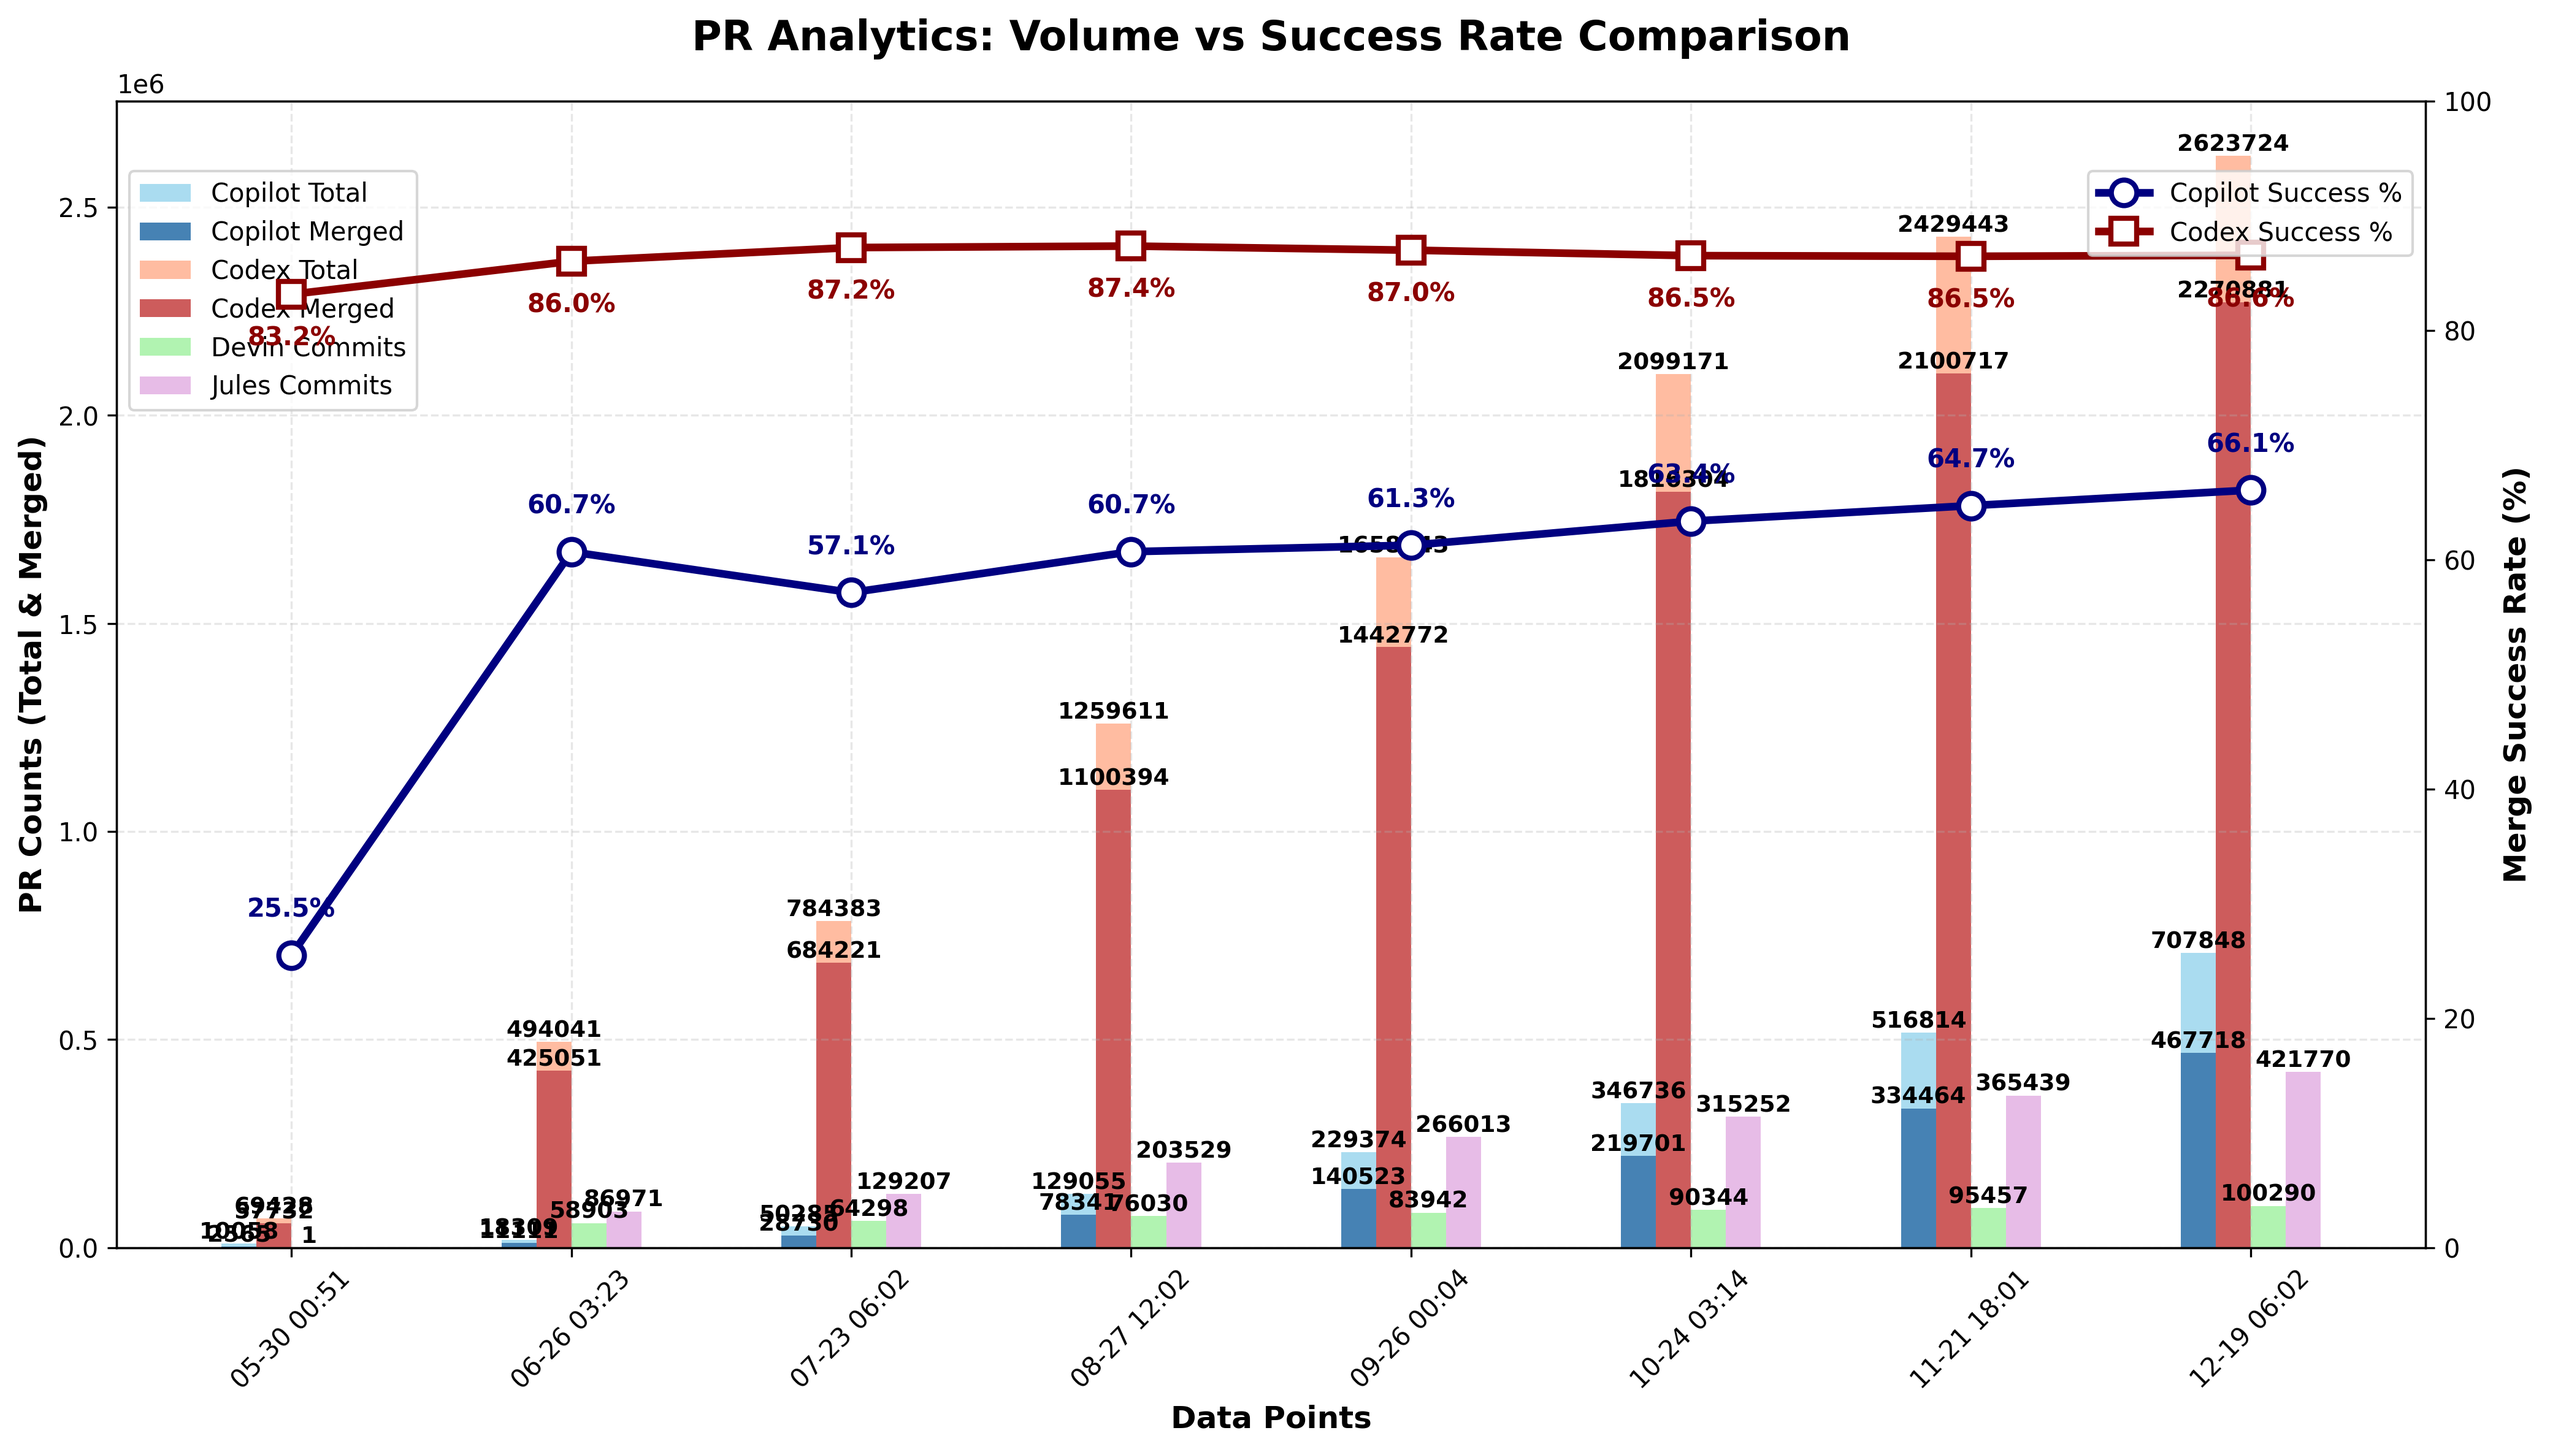
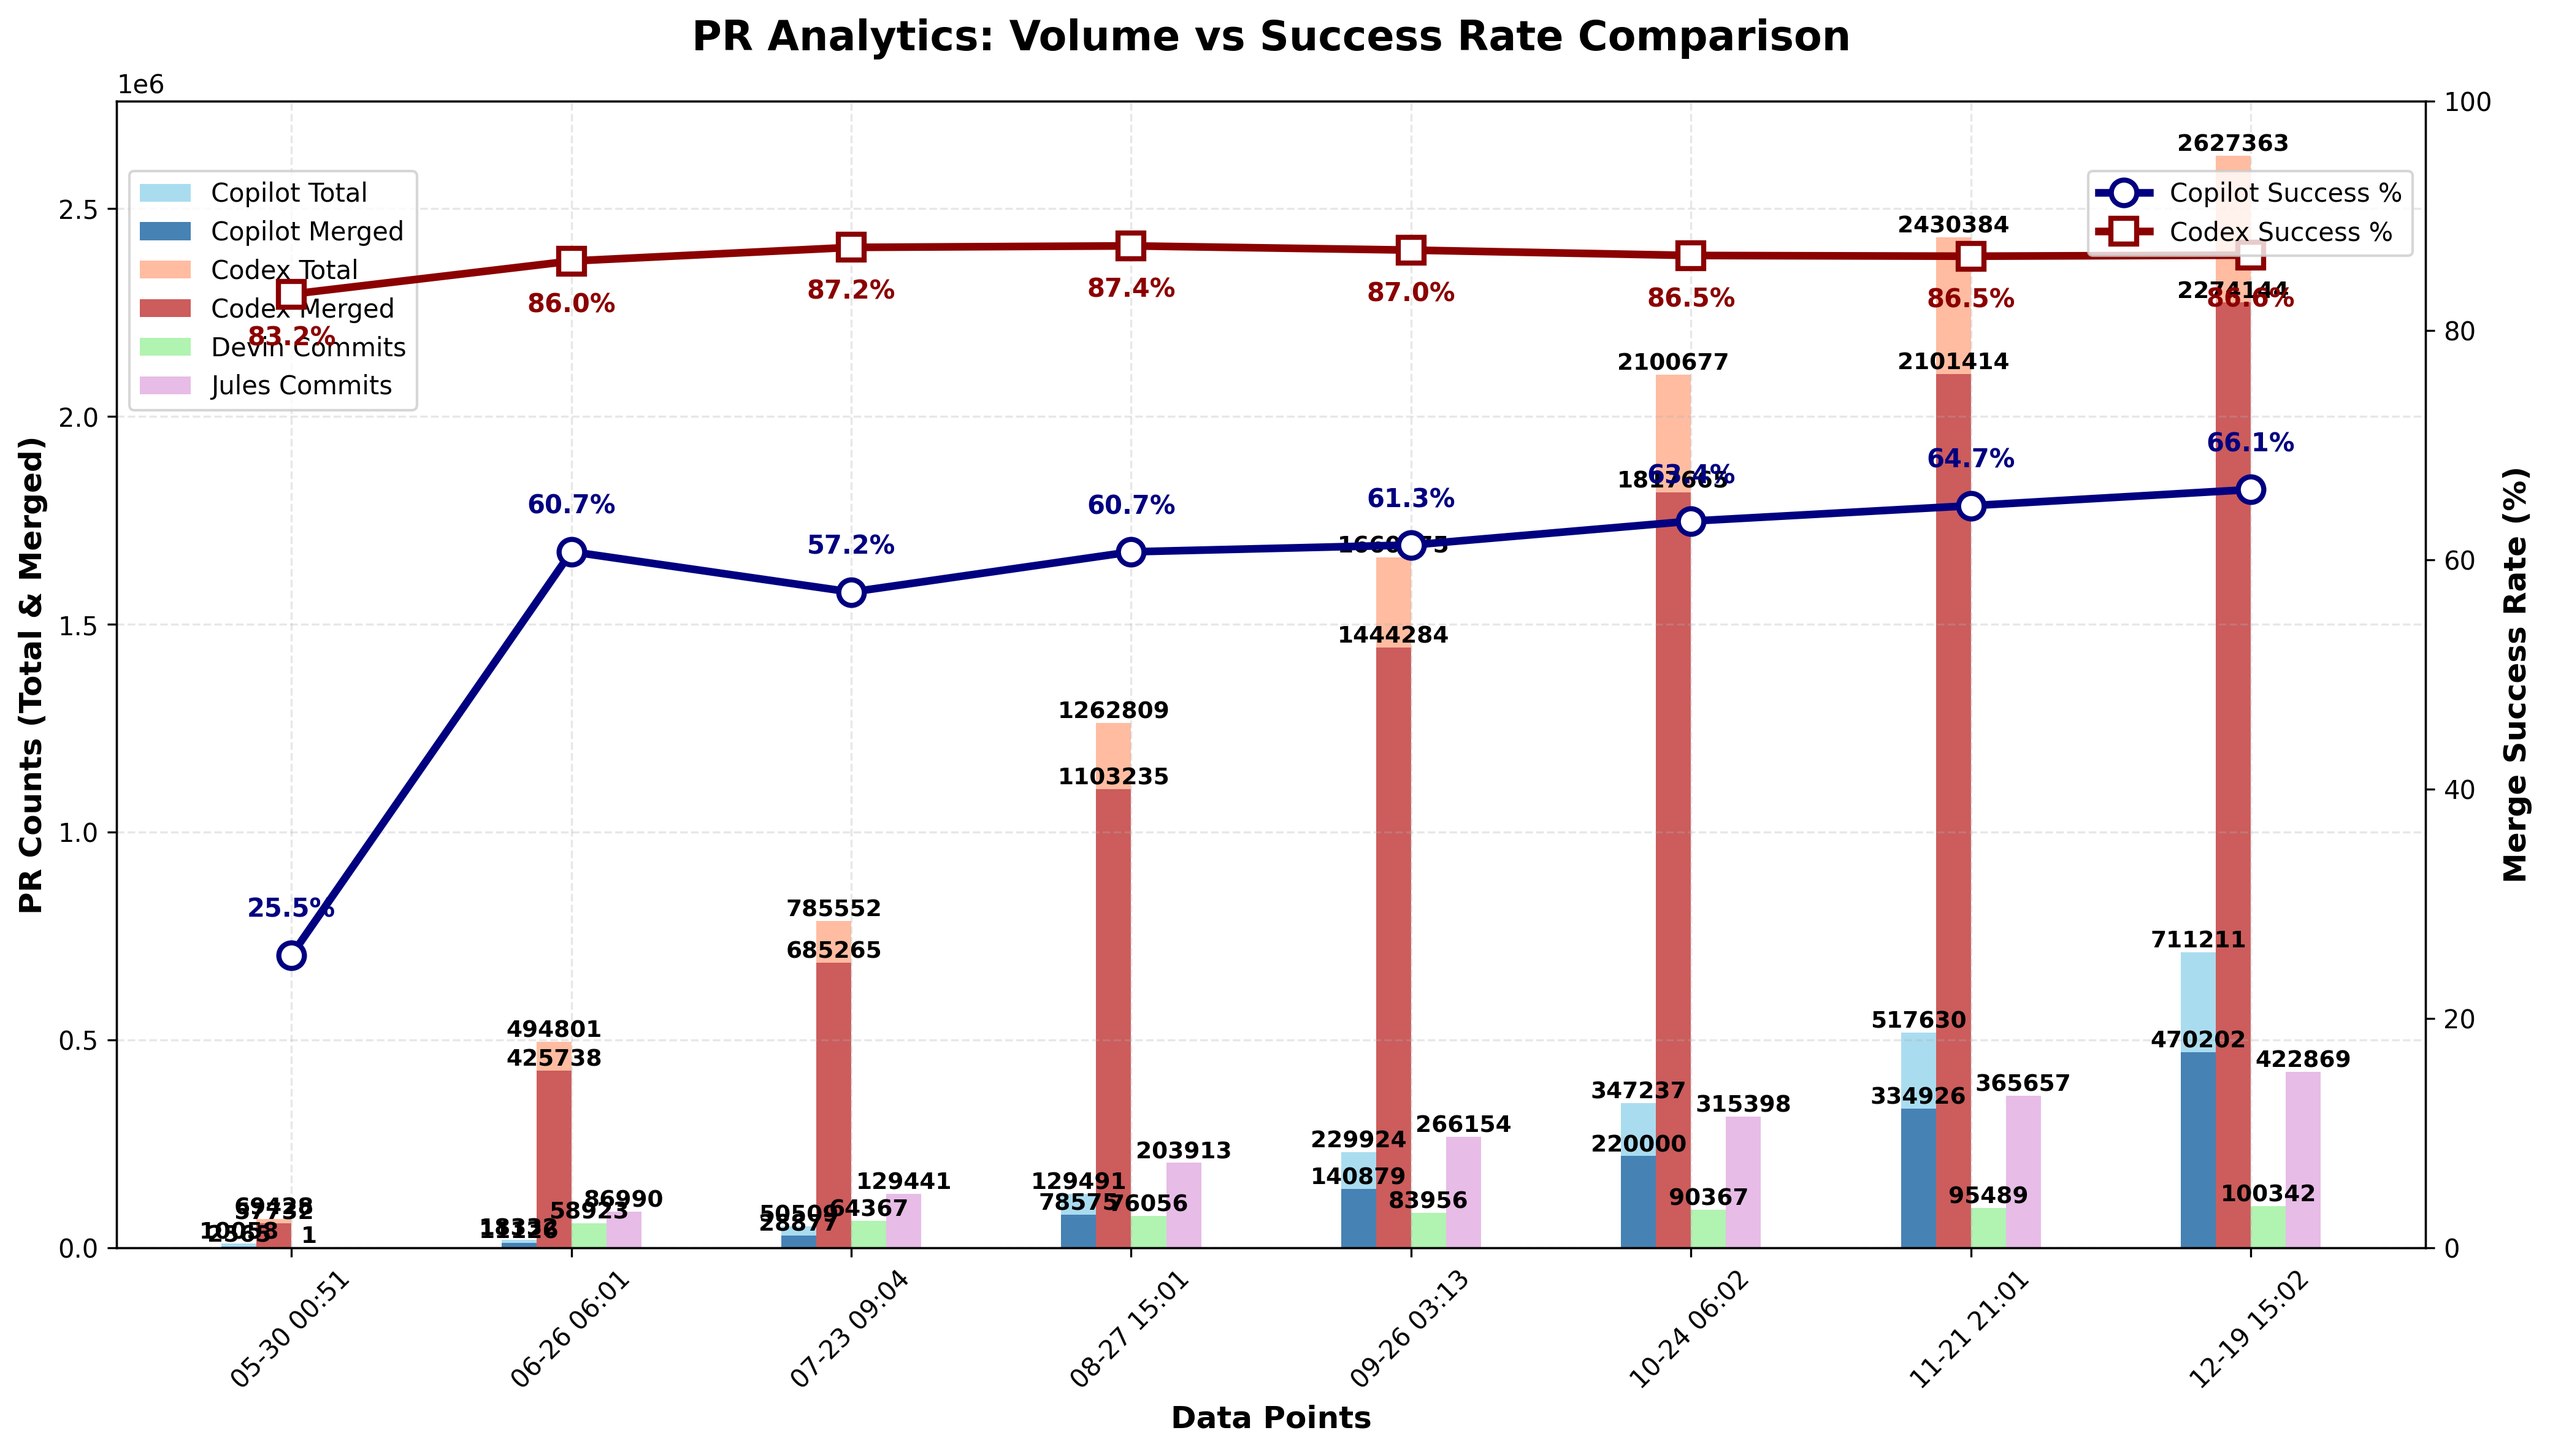
chore: update PR‑approval chart

diff --git a/docs/index.html b/docs/index.html
@@ -1566,6 +1566,7 @@
                         <td>N/A</td>
                         <td>N/A</td>
                         <td>N/A</td>
+                        <td>N/A</td>
                     </tr>
                     <tr>
                         <td>Codex</td>
@@ -3090,27 +3091,28 @@
                         <td>N/A</td>
                         <td>N/A</td>
                         <td>N/A</td>
+                        <td>N/A</td>
                     </tr>
                 <tr>
                         <td>Devin</td>
                         <td>N/A</td>
                         <td>N/A</td>
                         <td>N/A</td>
-                        <td>100,290</td>
+                        <td>100,342</td>
                     </tr>
                     <tr>
                         <td>Jules</td>
                         <td>N/A</td>
                         <td>N/A</td>
                         <td>N/A</td>
-                        <td>421,770</td>
+                        <td>422,869</td>
                     </tr>
                     </tbody>
             </table>
         </section>
 
         <footer>
-            <p>Last updated: <span id="last-updated">December 19, 2025 06:02 UTC</span></p>
+            <p>Last updated: <span id="last-updated">December 19, 2025 15:02 UTC</span></p>
             <p><a href="https://github.com/aavetis/ai-pr-watcher">View on GitHub</a></p>
         </footer>
     </div>

diff --git a/README.md b/README.md
@@ -19,7 +19,7 @@ Explore the GitHub search queries used:
 
 | Service | Total PRs | Merged PRs | Merge Rate | Total Commits |
 | ------- | --------- | ---------- | ---------- | ------------- |
-| Copilot | 707,848 | 467,718 | 66.08% | N/A           |
-| Codex   | 2,623,724 | 2,270,881 | 86.55% | N/A           |
-| Devin   | N/A       | N/A        | N/A        | 100,290 |
-| Jules   | N/A       | N/A        | N/A        | 421,770 |
+| Copilot | 711,211 | 470,202 | 66.11% | N/A           |
+| Codex   | 2,627,363 | 2,274,144 | 86.56% | N/A           |
+| Devin   | N/A       | N/A        | N/A        | 100,342 |
+| Jules   | N/A       | N/A        | N/A        | 422,869 |
